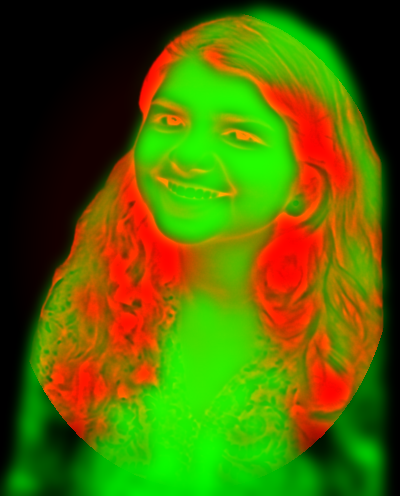
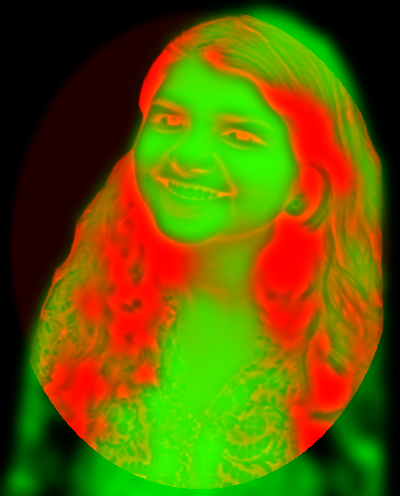
fix(music-box): the plate engraves the whole oval — no bare patches in her portrait

diff --git a/scripts/plate.py b/scripts/plate.py
@@ -38,12 +38,17 @@ yy, xx = np.mgrid[0:H, 0:W]
 # expose for her face, not the dark dress
 face = (alpha > 0.5) & (yy < H * 0.5) & (xx > W * 0.2) & (xx < W * 0.8)
 lo, hi = np.percentile(lum[face], 3), np.percentile(lum[face], 99)
-dark = (1 - np.clip((lum - lo) / (hi - lo), 0, 1)) ** 1.85
+dark = (1 - np.clip((lum - lo) / (hi - lo), 0, 1)) ** 1.65
+# fill the bright gaps between her curls, so the hair reads as one mass
+hairy = np.clip((dark - 0.35) / 0.3, 0, 1) * (alpha > 0.5)
+closed = np.maximum(dark, blur(dark * hairy, 3.0) * 1.12)
+dark = np.clip(dark + (closed - dark) * blur(hairy, 4.0), 0, 1)
 oval = ((xx - W / 2) / (W * 0.485)) ** 2 + ((yy - H / 2) / (H * 0.485)) ** 2
-bg = np.clip((1 - oval) * 2.2, 0, 1) * 0.08
-tone = alpha * (0.14 + 0.86 * dark) + (1 - alpha) * bg
-fade = np.clip((0.985 - yy / H) / 0.16, 0, 1)
-tone = np.where(oval <= 1, tone * (alpha * fade + (1 - alpha)), 0)
+# every part of the plate is engraved: a ruled ground right to the frame,
+# and even the brightest skin keeps a hairline
+bg = 0.12 * np.clip((1 - oval) * 12, 0, 1)
+tone = alpha * (0.2 + 0.8 * dark) + (1 - alpha) * bg
+tone = np.where(oval <= 1, tone, 0)
 form = blur((1 - dark) * alpha, 6.5)
 rg = np.zeros((H, W, 3), dtype=np.uint8)
 rg[..., 0] = (np.clip(tone, 0, 1) * 255).round()
